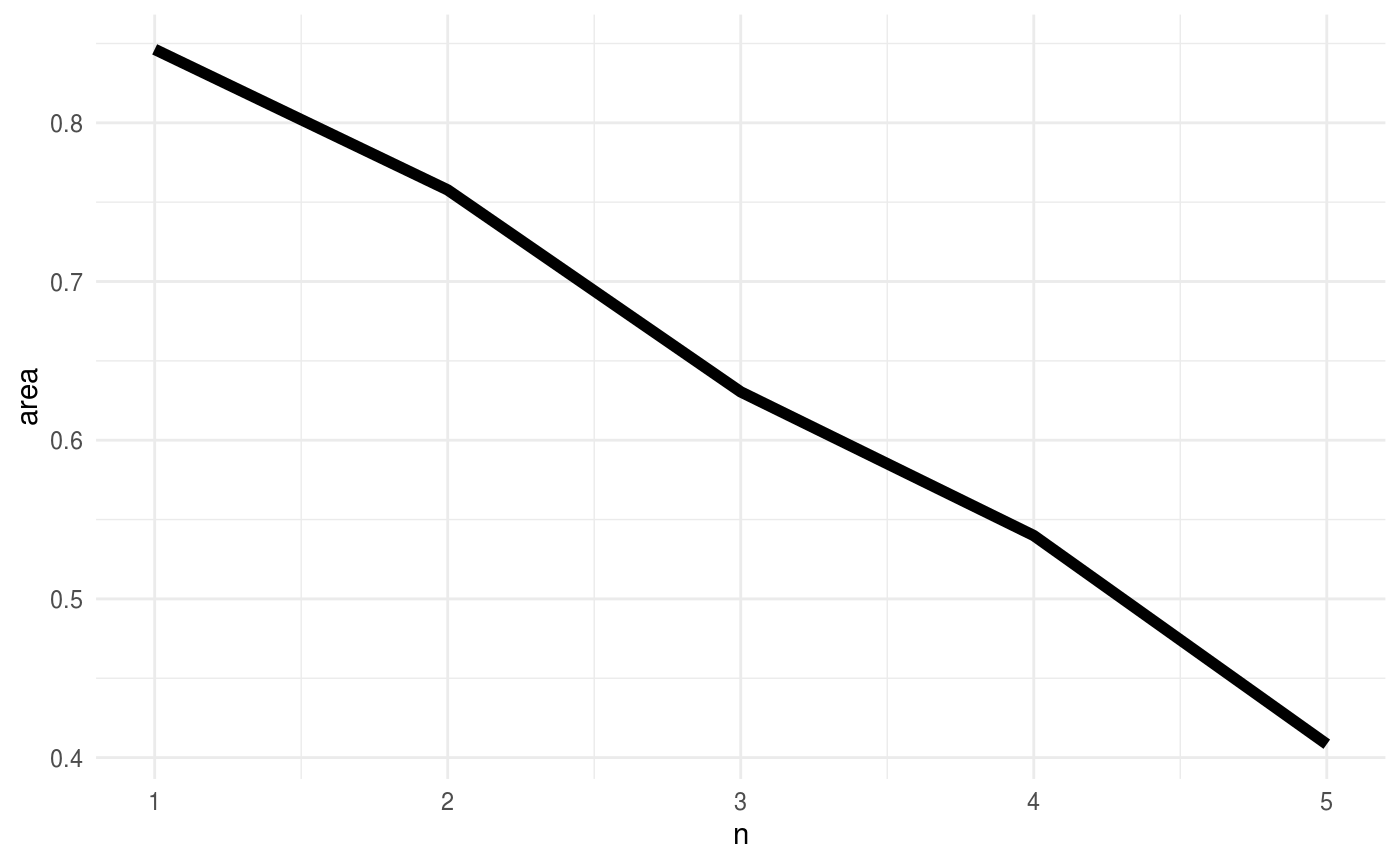
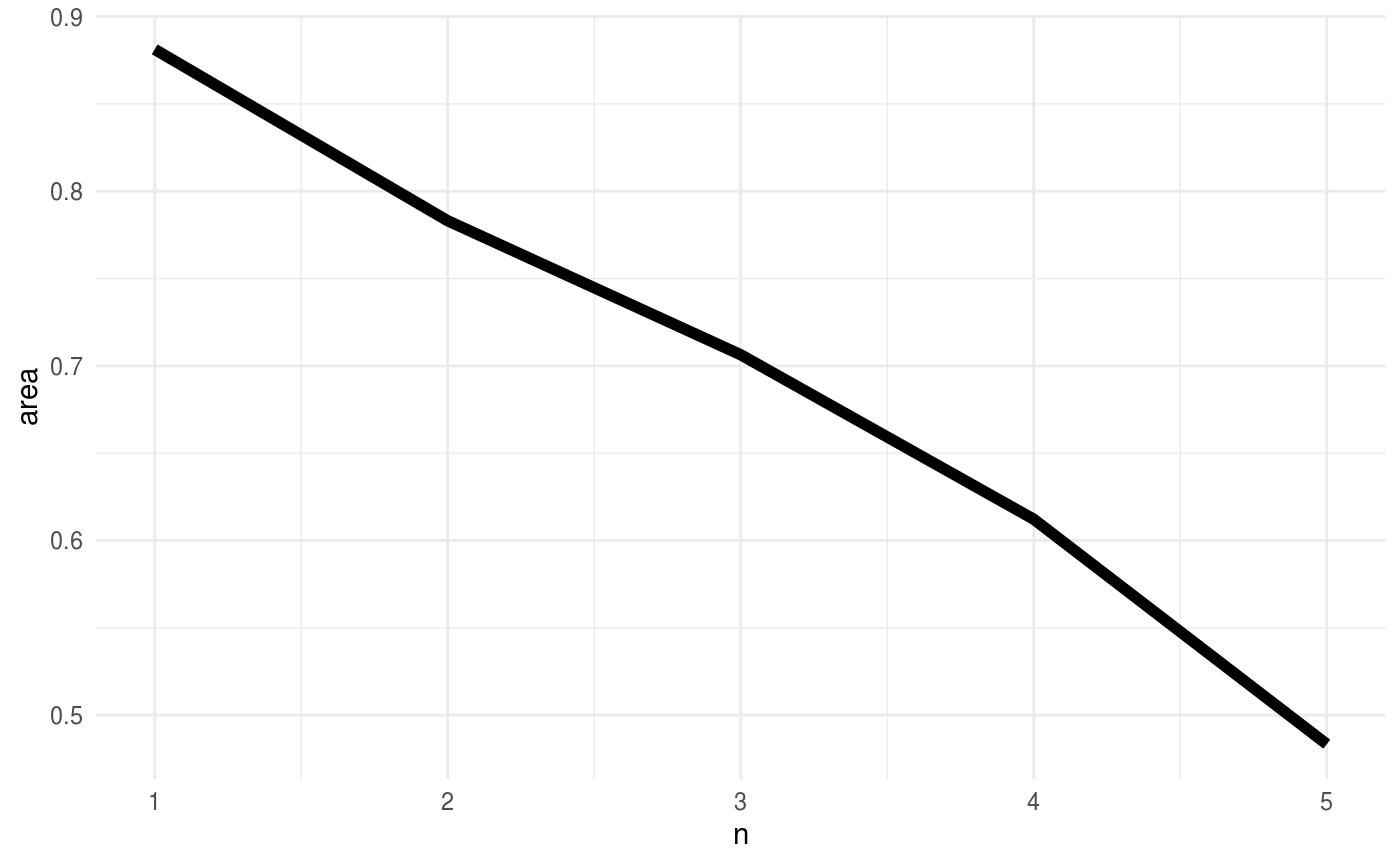
Built site for mapscanner: 0.0.1.12@abb04cb

diff --git a/articles/mapscanner.html b/articles/mapscanner.html
@@ -31,7 +31,7 @@
       </button>
       <span class="navbar-brand">
         <a class="navbar-link" href="../index.html">mapscanner</a>
-        <span class="version label label-default" data-toggle="tooltip" data-placement="bottom" title="Released version">0.0.1.11</span>
+        <span class="version label label-default" data-toggle="tooltip" data-placement="bottom" title="Released version">0.0.1.12</span>
       </span>
     </div>
 
@@ -70,7 +70,7 @@
       <h1>mapscanner</h1>
                         <h4 class="author">Mark Padgham and Michael D. Sumner</h4>
             
-            <h4 class="date">2020-02-02</h4>
+            <h4 class="date">2020-02-03</h4>
       
       <small class="dont-index">Source: <a href="https://github.com/mpadge/mapscanner/blob/master/vignettes/mapscanner.Rmd"><code>vignettes/mapscanner.Rmd</code></a></small>
       <div class="hidden name"><code>mapscanner.Rmd</code></div>
@@ -253,13 +253,14 @@ ggplot | mapshot } inst size | vignettes size
 <a class="sourceLine" id="cb19-5" data-line-number="5"><span class="kw"><a href="https://rdrr.io/r/base/library.html">library</a></span> (ggplot2)</a>
 <a class="sourceLine" id="cb19-6" data-line-number="6"><span class="kw"><a href="https://ggplot2.tidyverse.org/reference/ggplot.html">ggplot</a></span> (polys, <span class="kw"><a href="https://ggplot2.tidyverse.org/reference/aes.html">aes</a></span> (<span class="dt">fill =</span> n)) <span class="op">+</span><span class="st"> </span><span class="kw"><a href="https://ggplot2.tidyverse.org/reference/ggsf.html">geom_sf</a></span> () <span class="op">+</span><span class="st"> </span><span class="kw"><a href="https://ggplot2.tidyverse.org/reference/facet_wrap.html">facet_wrap</a></span> (<span class="op">~</span>type)</a></code></pre></div>
 <pre><code>## Loading required namespace: gibble</code></pre>
+<pre><code>## Loading required namespace: polyclip</code></pre>
 <p><img src="mapscanner_files/figure-html/random-polys-1.png" width="700"></p>
 <p>The left panel of that figure shows the random polygons in raw form successively overlaid upon one another. The right panel shows the aggregated contours of successive overlap from 1 to 5. The object returned from <a href="https://mpadge.github.io/mapscanner/reference/ms_aggregate_polys.html"><code><a href="../reference/ms_aggregate_polys.html">ms_aggregate_polys()</a></code></a> contains polygons ordered by level of aggregation (<code>n</code>), so the first entirely encloses the second; the second encloses the third; and so on. Particular contours can then be directly selected by filtering for desired values of <code>n</code>:</p>
-<div class="sourceCode" id="cb21"><pre class="sourceCode r"><code class="sourceCode r"><a class="sourceLine" id="cb21-1" data-line-number="1"><span class="kw"><a href="https://ggplot2.tidyverse.org/reference/ggplot.html">ggplot</a></span> (aggr [aggr<span class="op">$</span>n <span class="op">%in%</span><span class="st"> </span><span class="kw"><a href="https://rdrr.io/r/base/c.html">c</a></span> (<span class="dv">1</span>, <span class="dv">3</span>, <span class="dv">5</span>), ], <span class="kw"><a href="https://ggplot2.tidyverse.org/reference/aes.html">aes</a></span> (<span class="dt">fill =</span> n)) <span class="op">+</span><span class="st"> </span><span class="kw"><a href="https://ggplot2.tidyverse.org/reference/ggsf.html">geom_sf</a></span> ()</a></code></pre></div>
+<div class="sourceCode" id="cb22"><pre class="sourceCode r"><code class="sourceCode r"><a class="sourceLine" id="cb22-1" data-line-number="1"><span class="kw"><a href="https://ggplot2.tidyverse.org/reference/ggplot.html">ggplot</a></span> (aggr [aggr<span class="op">$</span>n <span class="op">%in%</span><span class="st"> </span><span class="kw"><a href="https://rdrr.io/r/base/c.html">c</a></span> (<span class="dv">1</span>, <span class="dv">3</span>, <span class="dv">5</span>), ], <span class="kw"><a href="https://ggplot2.tidyverse.org/reference/aes.html">aes</a></span> (<span class="dt">fill =</span> n)) <span class="op">+</span><span class="st"> </span><span class="kw"><a href="https://ggplot2.tidyverse.org/reference/ggsf.html">geom_sf</a></span> ()</a></code></pre></div>
 <p><img src="mapscanner_files/figure-html/aggr13-1.png" width="700"></p>
 <p>Polygon aggregation enables many interesting analyses to be performed, such as relationships between aggregation level and area:</p>
-<div class="sourceCode" id="cb22"><pre class="sourceCode r"><code class="sourceCode r"><a class="sourceLine" id="cb22-1" data-line-number="1">aggr<span class="op">$</span>area &lt;-<span class="st"> </span>sf<span class="op">::</span><span class="kw"><a href="https://rdrr.io/pkg/sf/man/geos_measures.html">st_area</a></span> (aggr)</a>
-<a class="sourceLine" id="cb22-2" data-line-number="2"><span class="kw"><a href="https://ggplot2.tidyverse.org/reference/ggplot.html">ggplot</a></span> (aggr, <span class="kw"><a href="https://ggplot2.tidyverse.org/reference/aes.html">aes</a></span> (<span class="dt">x =</span> n, <span class="dt">y =</span> area)) <span class="op">+</span><span class="st"> </span><span class="kw"><a href="https://ggplot2.tidyverse.org/reference/geom_path.html">geom_line</a></span> (<span class="dt">size =</span> <span class="dv">2</span>)</a></code></pre></div>
+<div class="sourceCode" id="cb23"><pre class="sourceCode r"><code class="sourceCode r"><a class="sourceLine" id="cb23-1" data-line-number="1">aggr<span class="op">$</span>area &lt;-<span class="st"> </span>sf<span class="op">::</span><span class="kw"><a href="https://rdrr.io/pkg/sf/man/geos_measures.html">st_area</a></span> (aggr)</a>
+<a class="sourceLine" id="cb23-2" data-line-number="2"><span class="kw"><a href="https://ggplot2.tidyverse.org/reference/ggplot.html">ggplot</a></span> (aggr, <span class="kw"><a href="https://ggplot2.tidyverse.org/reference/aes.html">aes</a></span> (<span class="dt">x =</span> n, <span class="dt">y =</span> area)) <span class="op">+</span><span class="st"> </span><span class="kw"><a href="https://ggplot2.tidyverse.org/reference/geom_path.html">geom_line</a></span> (<span class="dt">size =</span> <span class="dv">2</span>)</a></code></pre></div>
 <p><img src="mapscanner_files/figure-html/aggr-area-1.png" width="700"></p>
 <p>That result is of course (roughly) linear, because it was derived from random data. In actual usage, results such as that are likely to generate direct insight into consensus of opinion regarding how people understand particular areas.</p>
 </div>
@@ -268,7 +269,7 @@ ggplot | mapshot } inst size | vignettes size
 <a href="#how-it-works" class="anchor"></a>How it works</h2>
 <p>(This section is not necessary for package usage, and merely provides detail for those interested in how the process actually works.) <code>mapscanner</code> primarily relies on the <a href="https://github.com/jonclayden/RNiftyReg"><code>RNiftyReg</code> package</a> to rectify the images. This package is itself primarily aimed at rectifying medical scans, but also happens to be the perfect tool for the present purposes. Being an image analysis software, the library requires image objects, and not <code>pdf</code> files, which is why the <a href="https://mpadge.github.io/mapscanner/reference/ms_generate_map.html"><code><a href="../reference/ms_generate_map.html">ms_generate_map()</a></code></a> function produces both kinds of files - the <code>.pdf</code> for printing and the <code>.png</code> for rectifying with the <code>RNiftyReg</code> package.</p>
 <p>Rectification re-projects a scanned image back on to the coordinate system of an original image. This coordinate system translates here in to a defined bounding box (which may differ slightly from the values input into the function, due to the cutting and stitching of the vector tiles). This bounding box is embedded as meta-information in both the files produced by <a href="https://mpadge.github.io/mapscanner/reference/ms_generate_map.html"><code><a href="../reference/ms_generate_map.html">ms_generate_map()</a></code></a>; in the <code>.pdf</code> as standard meta information accessible in <strong>R</strong> like this:</p>
-<div class="sourceCode" id="cb23"><pre class="sourceCode r"><code class="sourceCode r"><a class="sourceLine" id="cb23-1" data-line-number="1">pdftools<span class="op">::</span><span class="kw"><a href="https://docs.ropensci.org/pdftools/reference/pdftools.html">pdf_info</a></span> (<span class="st">"chennai.pdf"</span>)<span class="op">$</span>keys</a></code></pre></div>
+<div class="sourceCode" id="cb24"><pre class="sourceCode r"><code class="sourceCode r"><a class="sourceLine" id="cb24-1" data-line-number="1">pdftools<span class="op">::</span><span class="kw"><a href="https://docs.ropensci.org/pdftools/reference/pdftools.html">pdf_info</a></span> (<span class="st">"chennai.pdf"</span>)<span class="op">$</span>keys</a></code></pre></div>
 <pre><code>## $Title
 ## [1] "EX8921118.44521949+1442748.9088827+8942673.68719591+1486623.76311839"
 ## 
@@ -278,8 +279,8 @@ ggplot | mapshot } inst size | vignettes size
 ## $Creator
 ## [1] "R"</code></pre>
 <p>or in a terminal via <code>pdfinfo</code> (or non-linux equivalent), and embedded in the <code>.png</code> file as comment, accessible like this:</p>
-<div class="sourceCode" id="cb25"><pre class="sourceCode r"><code class="sourceCode r"><a class="sourceLine" id="cb25-1" data-line-number="1">img &lt;-<span class="st"> </span>magick<span class="op">::</span><span class="kw"><a href="https://docs.ropensci.org/magick/reference/editing.html">image_read</a></span> (<span class="st">"chennai.png"</span>)</a>
-<a class="sourceLine" id="cb25-2" data-line-number="2">magick<span class="op">::</span><span class="kw"><a href="https://docs.ropensci.org/magick/reference/attributes.html">image_comment</a></span> (img)</a></code></pre></div>
+<div class="sourceCode" id="cb26"><pre class="sourceCode r"><code class="sourceCode r"><a class="sourceLine" id="cb26-1" data-line-number="1">img &lt;-<span class="st"> </span>magick<span class="op">::</span><span class="kw"><a href="https://docs.ropensci.org/magick/reference/editing.html">image_read</a></span> (<span class="st">"chennai.png"</span>)</a>
+<a class="sourceLine" id="cb26-2" data-line-number="2">magick<span class="op">::</span><span class="kw"><a href="https://docs.ropensci.org/magick/reference/attributes.html">image_comment</a></span> (img)</a></code></pre></div>
 <pre><code>## [1] "EX8921118.44521949+1442748.9088827+8942673.68719591+1486623.76311839"</code></pre>
 <p>or in a terminal via <code>identify -verbose</code> command (itself part of the <code>imagemagick</code> library which drives the <a href="https://github.com/ropensci/magick"><code>magick</code> <strong>R</strong> package</a>).</p>
 </div>

diff --git a/reference/ms_aggregate_polys.html b/reference/ms_aggregate_polys.html
@@ -69,7 +69,7 @@
       </button>
       <span class="navbar-brand">
         <a class="navbar-link" href="../index.html">mapscanner</a>
-        <span class="version label label-default" data-toggle="tooltip" data-placement="bottom" title="Released version">0.0.1.11</span>
+        <span class="version label label-default" data-toggle="tooltip" data-placement="bottom" title="Released version">0.0.1.12</span>
       </span>
     </div>
 
@@ -142,7 +142,7 @@ considered.</p>
 <span class='no'>overlapping_polys</span> <span class='kw'>&lt;-</span> <span class='kw pkg'>sf</span><span class='kw ns'>::</span><span class='fu'><a href='https://rdrr.io/pkg/sf/man/geos_unary.html'>st_buffer</a></span>(<span class='no'>pts</span>, <span class='fl'>0.75</span>)
 
 <span class='co'>## decompose and count space-filling from overlapping polygons</span>
-<span class='no'>x</span> <span class='kw'>&lt;-</span> <span class='fu'>ms_aggregate_polys</span>(<span class='no'>overlapping_polys</span>)</div><div class='output co'>#&gt; <span class='message'>Loading required namespace: dplyr</span></div><div class='output co'>#&gt; <span class='message'>Loading required namespace: gibble</span></div><div class='input'><span class='fu'><a href='https://rdrr.io/r/graphics/plot.html'>plot</a></span>(<span class='no'>x</span>)</div><div class='img'><img src='ms_aggregate_polys-1.png' alt='' width='700' height='433' /></div><div class='input'><span class='co'># library(ggplot2)</span>
+<span class='no'>x</span> <span class='kw'>&lt;-</span> <span class='fu'>ms_aggregate_polys</span>(<span class='no'>overlapping_polys</span>)</div><div class='output co'>#&gt; <span class='message'>Loading required namespace: dplyr</span></div><div class='output co'>#&gt; <span class='message'>Loading required namespace: gibble</span></div><div class='output co'>#&gt; <span class='message'>Loading required namespace: polyclip</span></div><div class='input'><span class='fu'><a href='https://rdrr.io/r/graphics/plot.html'>plot</a></span>(<span class='no'>x</span>)</div><div class='img'><img src='ms_aggregate_polys-1.png' alt='' width='700' height='433' /></div><div class='input'><span class='co'># library(ggplot2)</span>
 <span class='co'># ggplot(x) + geom_sf() + facet_wrap(~n)</span>
 
 <span class='fu'><a href='https://rdrr.io/r/base/library.html'>library</a></span>(<span class='no'>sf</span>)</div><div class='output co'>#&gt; <span class='message'>Linking to GEOS 3.7.1, GDAL 2.2.2, PROJ 4.9.2</span></div><div class='input'><span class='fu'><a href='https://rdrr.io/r/base/Random.html'>set.seed</a></span>(<span class='fl'>6</span>)

diff --git a/reference/ms_generate_map.html b/reference/ms_generate_map.html
@@ -72,7 +72,7 @@ alternative location when mapname includes the full path." />
       </button>
       <span class="navbar-brand">
         <a class="navbar-link" href="../index.html">mapscanner</a>
-        <span class="version label label-default" data-toggle="tooltip" data-placement="bottom" title="Released version">0.0.1.11</span>
+        <span class="version label label-default" data-toggle="tooltip" data-placement="bottom" title="Released version">0.0.1.12</span>
       </span>
     </div>
 

diff --git a/reference/ms_rectify_maps.html b/reference/ms_rectify_maps.html
@@ -71,7 +71,7 @@ format." />
       </button>
       <span class="navbar-brand">
         <a class="navbar-link" href="../index.html">mapscanner</a>
-        <span class="version label label-default" data-toggle="tooltip" data-placement="bottom" title="Released version">0.0.1.11</span>
+        <span class="version label label-default" data-toggle="tooltip" data-placement="bottom" title="Released version">0.0.1.12</span>
       </span>
     </div>
 

diff --git a/articles/index.html b/articles/index.html
@@ -67,7 +67,7 @@
       </button>
       <span class="navbar-brand">
         <a class="navbar-link" href="../index.html">mapscanner</a>
-        <span class="version label label-default" data-toggle="tooltip" data-placement="bottom" title="Released version">0.0.1.11</span>
+        <span class="version label label-default" data-toggle="tooltip" data-placement="bottom" title="Released version">0.0.1.12</span>
       </span>
     </div>
 

diff --git a/reference/index.html b/reference/index.html
@@ -67,7 +67,7 @@
       </button>
       <span class="navbar-brand">
         <a class="navbar-link" href="../index.html">mapscanner</a>
-        <span class="version label label-default" data-toggle="tooltip" data-placement="bottom" title="Released version">0.0.1.11</span>
+        <span class="version label label-default" data-toggle="tooltip" data-placement="bottom" title="Released version">0.0.1.12</span>
       </span>
     </div>
 

diff --git a/reference/mapscanner-package.html b/reference/mapscanner-package.html
@@ -70,7 +70,7 @@
       </button>
       <span class="navbar-brand">
         <a class="navbar-link" href="../index.html">mapscanner</a>
-        <span class="version label label-default" data-toggle="tooltip" data-placement="bottom" title="Released version">0.0.1.11</span>
+        <span class="version label label-default" data-toggle="tooltip" data-placement="bottom" title="Released version">0.0.1.12</span>
       </span>
     </div>
 

diff --git a/reference/ms_rotate_map.html b/reference/ms_rotate_map.html
@@ -69,7 +69,7 @@
       </button>
       <span class="navbar-brand">
         <a class="navbar-link" href="../index.html">mapscanner</a>
-        <span class="version label label-default" data-toggle="tooltip" data-placement="bottom" title="Released version">0.0.1.11</span>
+        <span class="version label label-default" data-toggle="tooltip" data-placement="bottom" title="Released version">0.0.1.12</span>
       </span>
     </div>
 

diff --git a/reference/pipe.html b/reference/pipe.html
@@ -69,7 +69,7 @@
       </button>
       <span class="navbar-brand">
         <a class="navbar-link" href="../index.html">mapscanner</a>
-        <span class="version label label-default" data-toggle="tooltip" data-placement="bottom" title="Released version">0.0.1.11</span>
+        <span class="version label label-default" data-toggle="tooltip" data-placement="bottom" title="Released version">0.0.1.12</span>
       </span>
     </div>
 

diff --git a/reference/set_mapbox_token.html b/reference/set_mapbox_token.html
@@ -69,7 +69,7 @@
       </button>
       <span class="navbar-brand">
         <a class="navbar-link" href="../index.html">mapscanner</a>
-        <span class="version label label-default" data-toggle="tooltip" data-placement="bottom" title="Released version">0.0.1.11</span>
+        <span class="version label label-default" data-toggle="tooltip" data-placement="bottom" title="Released version">0.0.1.12</span>
       </span>
     </div>
 

diff --git a/404.html b/404.html
@@ -67,7 +67,7 @@
       </button>
       <span class="navbar-brand">
         <a class="navbar-link" href="index.html">mapscanner</a>
-        <span class="version label label-default" data-toggle="tooltip" data-placement="bottom" title="Released version">0.0.1.11</span>
+        <span class="version label label-default" data-toggle="tooltip" data-placement="bottom" title="Released version">0.0.1.12</span>
       </span>
     </div>
 

diff --git a/CODE_OF_CONDUCT.html b/CODE_OF_CONDUCT.html
@@ -67,7 +67,7 @@
       </button>
       <span class="navbar-brand">
         <a class="navbar-link" href="index.html">mapscanner</a>
-        <span class="version label label-default" data-toggle="tooltip" data-placement="bottom" title="Released version">0.0.1.11</span>
+        <span class="version label label-default" data-toggle="tooltip" data-placement="bottom" title="Released version">0.0.1.12</span>
       </span>
     </div>
 
